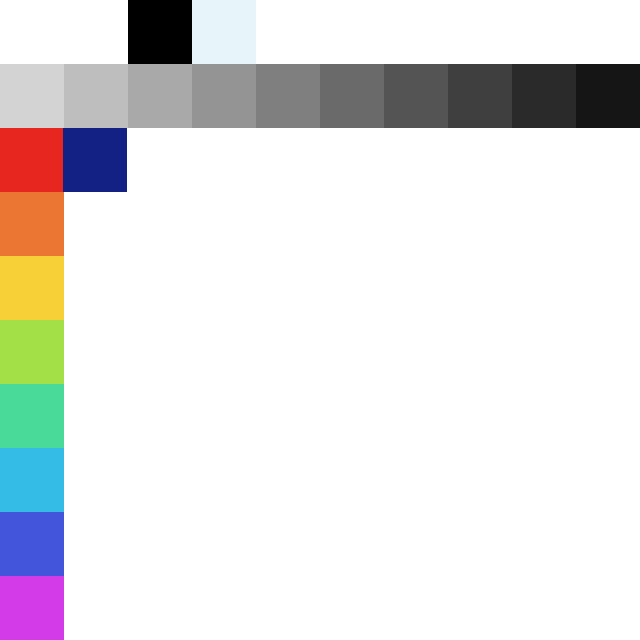
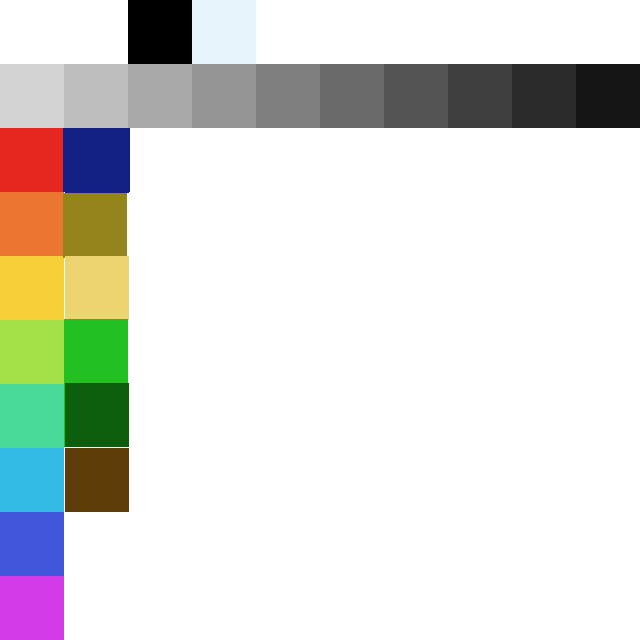
3rd ever commit ever

Changed region(s): [[0.0938, 0.2188, 0.2188, 0.8125]]

diff --git a/core/src/com/bmhs/gametitle/game/assets/worlds/WorldGenerator.java b/core/src/com/bmhs/gametitle/game/assets/worlds/WorldGenerator.java
@@ -38,14 +38,19 @@ public class WorldGenerator {
         //call methods to build 2D array
         //randomize();
         //leftCoast ();
+        setWater();
         Gdx.app.error("WorldGenerator", "WorldGenerator(WorldTile[][][])");
 
         generateWorldTextFile();
     }
-
-    private void generateWorldTextFile () {
-        FileHandle file = Gdx.files.local ("assets/worlds/world.txt");
-        file.writeString (getWorld3DArrayToString(), false);
+    public void setWater () {
+        for(int r = 0; r < worldIntMap.length; r++) {
+            for(int c = 0; c < worldIntMap[r].length; c++) {
+                if (c >= 0) {
+                    worldIntMap[r][c]= 16;
+                }
+            }
+        }
     }
 
     public String getWorld3DArrayToString() {
@@ -81,15 +86,7 @@ public class WorldGenerator {
         }
     }
 
-    public void setWater () {
-        for(int r = 0; r < worldIntMap.length; r++) {
-            for(int c = 0; c < worldIntMap[r].length; c++) {
-                if (c <= 0) {
-                    worldIntMap[r][c] = 20;
-                }
-            }
-        }
-    }
+
 
     public WorldTile[][] generateWorld() {
         WorldTile[][] worldTileMap = new WorldTile[worldMapRows][worldMapColumns];
@@ -100,5 +97,8 @@ public class WorldGenerator {
         }
         return worldTileMap;
     }
-
+    private void generateWorldTextFile () {
+        FileHandle file = Gdx.files.local ("assets/worlds/world.txt");
+        file.writeString (getWorld3DArrayToString(), false);
+    }
 }

diff --git a/core/src/com/bmhs/gametitle/gfx/utils/TileHandler.java b/core/src/com/bmhs/gametitle/gfx/utils/TileHandler.java
@@ -30,8 +30,16 @@ public class TileHandler {
 
         worldTileArray.add(new WorldTile(new TextureRegion(new Texture(primaryColorSheetPath), 0, 0, spriteOnSheetWidth, spriteOnSheetHeight), 0, "transparent"));
 
+       worldTileArray.add(new WorldTile(new TextureRegion(new Texture(primaryColorSheetPath), 0, 0, spriteOnSheetWidth, spriteOnSheetHeight), 1, "idk"));
+
+
+
+
+
         createWorldTiles(primaryColorSheetPath, "primary color", worldTileArray);
         createWorldTiles(grassSpriteSheetPath, "grass", worldTileArray);
+
+
     }
 
     public static TileHandler getTileHandler() {
